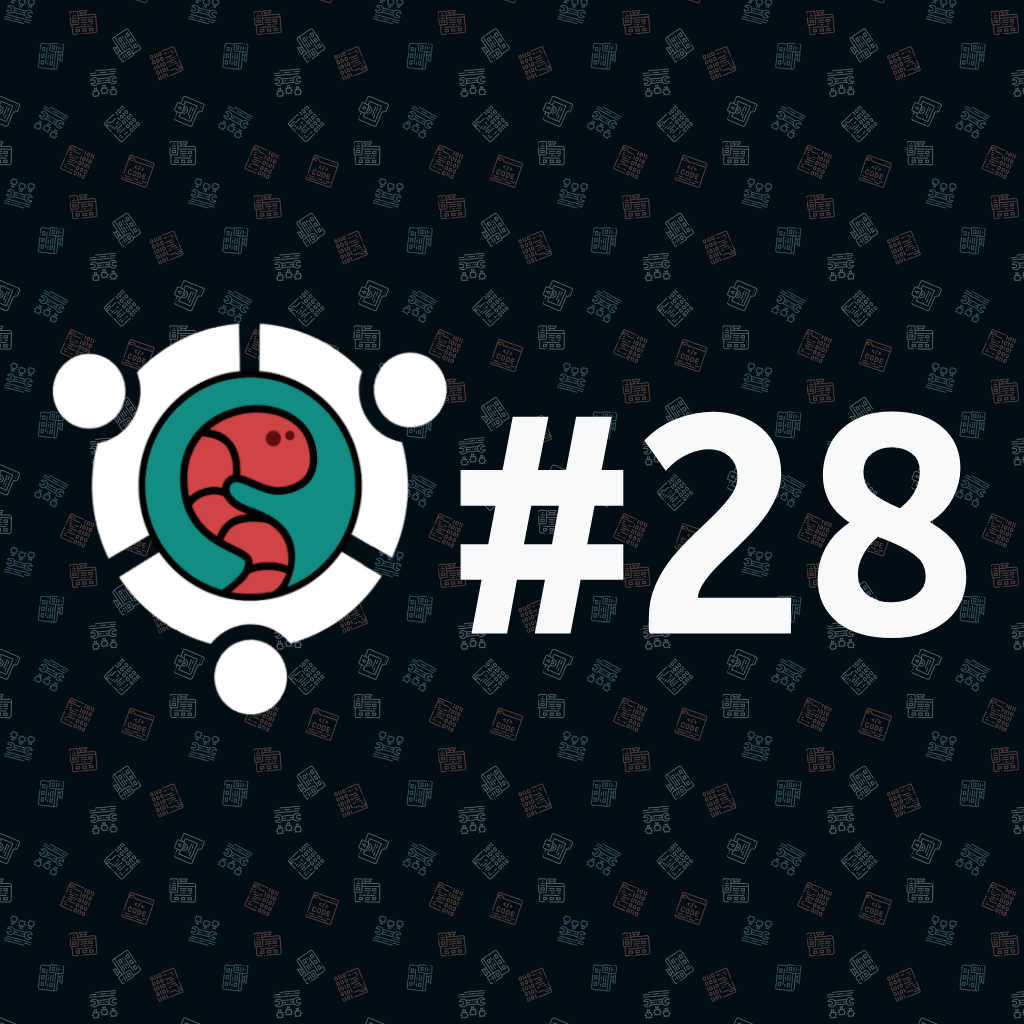
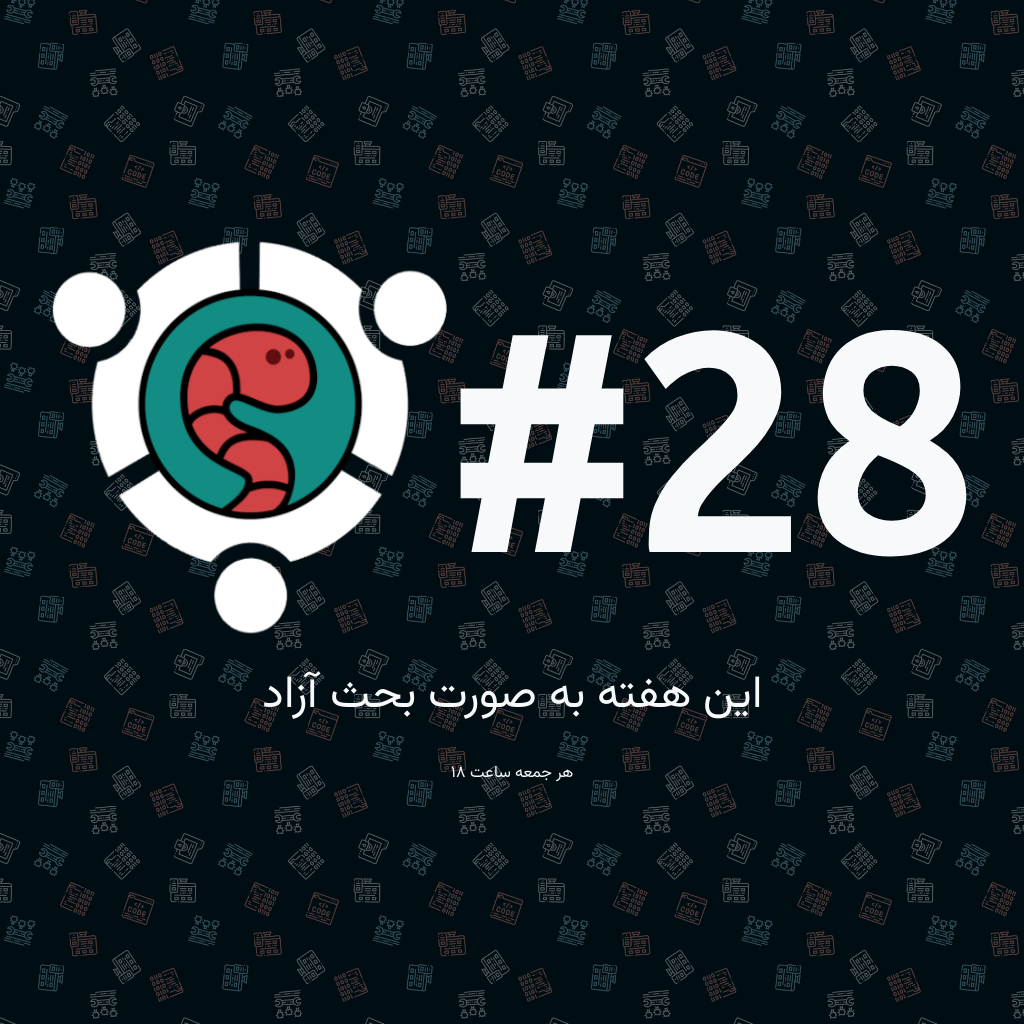
deploy: 3d074f53431d0a958dfee83828257ceb31542b80

Changed region(s): [[0.0312, 0.2188, 0.9688, 0.7188], [0.4688, 0.75, 0.5625, 0.7812]]

diff --git a/28/preview.html b/28/preview.html
@@ -24,6 +24,16 @@
                 <span class="big-text d-inline-block">#28</span>
             </div>
         </div>
+        <div class="row justify-content-center">
+                <div class="col-12 p-2 text-center">
+                    <h2 class="subject" dir="rtl">این هفته به صورت بحث آزاد</h2>
+                </div>
+        </div>
+        <div class="row justify-content-center">
+            <div class="col-12 p-2 text-center">
+                <small>هر جمعه ساعت ۱۸</small>
+            </div>
+        </div>
     </div>
 </body>
 

diff --git a/preview.html b/preview.html
@@ -24,6 +24,16 @@
                 <span class="big-text d-inline-block">#28</span>
             </div>
         </div>
+        <div class="row justify-content-center">
+                <div class="col-12 p-2 text-center">
+                    <h2 class="subject" dir="rtl">این هفته به صورت بحث آزاد</h2>
+                </div>
+        </div>
+        <div class="row justify-content-center">
+            <div class="col-12 p-2 text-center">
+                <small>هر جمعه ساعت ۱۸</small>
+            </div>
+        </div>
     </div>
 </body>
 
